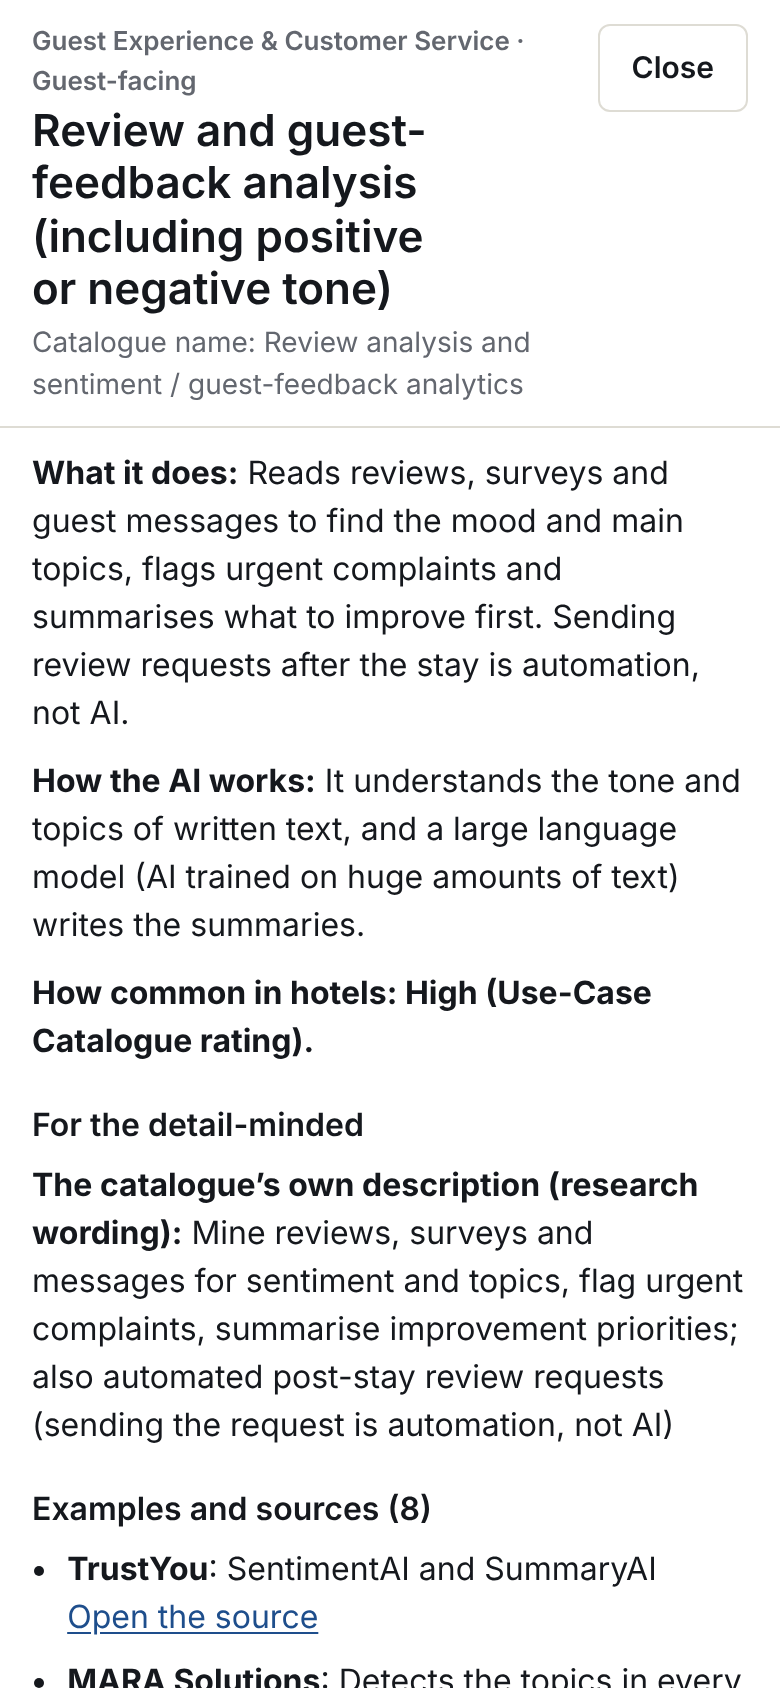
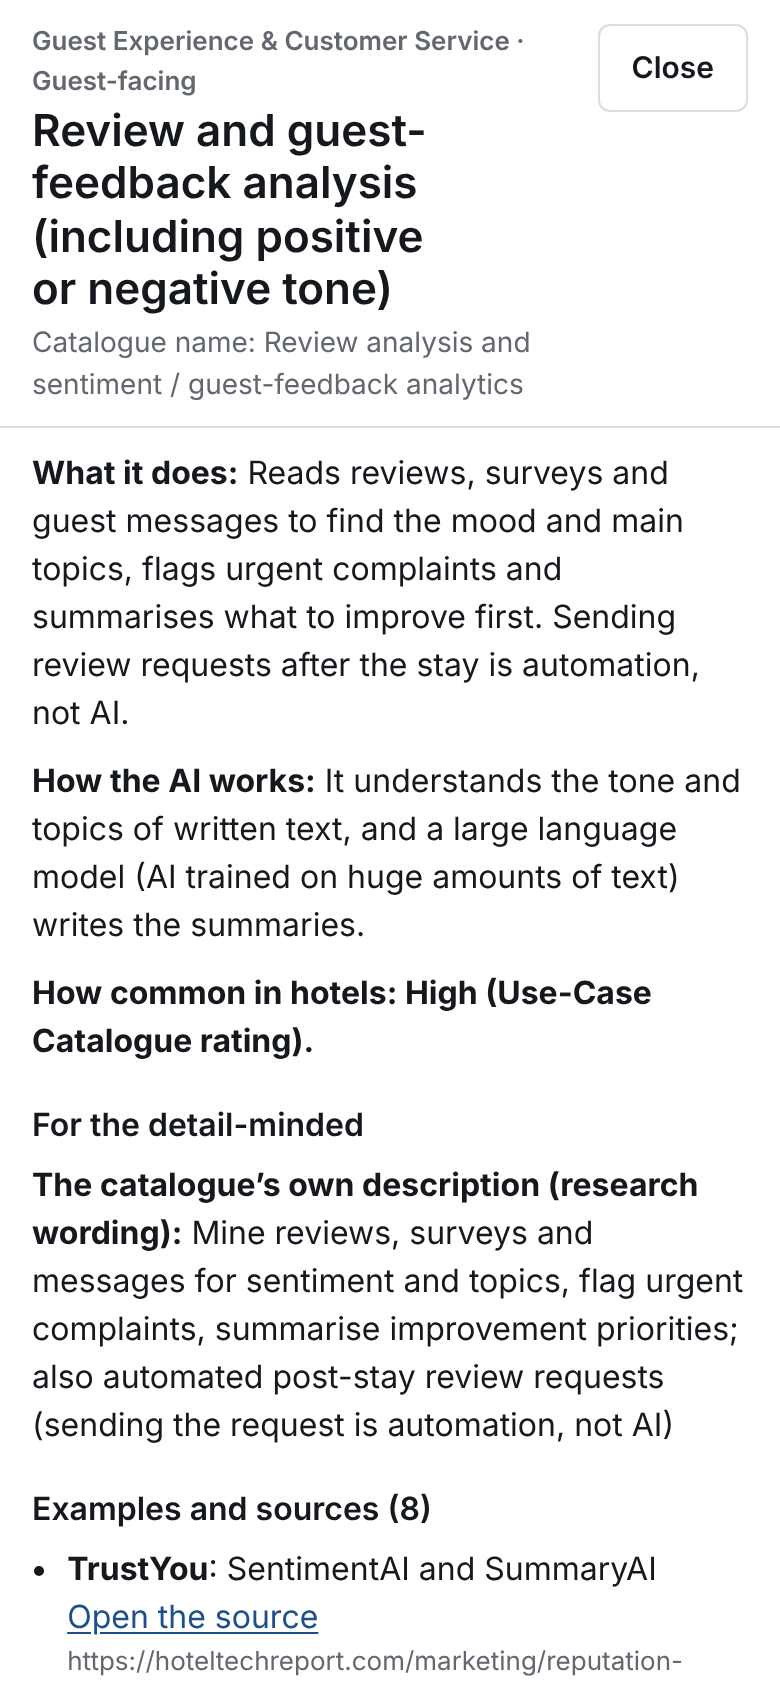
Do you need AI?: each source in the detail layer shows its address, selectable, with Copy address (the claude.ai viewer may refuse links from inside the hub)
Claude-Session: https://claude.ai/code/session_01FfMsQbQQ8DvNf1wGU3HsQR

Changed region(s): [[0.0308, 0.955, 0.9538, 1.0]]

diff --git a/tools/readiness-2/index.html b/tools/readiness-2/index.html
@@ -378,6 +378,12 @@ dialog.detail .tag{display:inline-block;font-size:0.75rem;font-weight:600;color:
 @media (max-width:640px){ dialog.detail{width:100vw;margin:0;box-shadow:none} dialog.detail .dhead{padding:12px 16px 10px} dialog.detail .dbody{padding:10px 16px 24px} }
 @media print{ dialog.detail{display:none!important} }
 
+/* 24 Nov 2026: source address shown under each source in the detail layer, selectable, with Copy address */
+.srcaddr{display:block;margin-top:2px;font-size:0.8125rem;color:var(--ink3);overflow-wrap:anywhere}
+.srcaddr .srcurl{user-select:all;-webkit-user-select:all}
+.srcaddr .copysrc{font-size:0.8125rem;min-height:44px;padding:0 4px}
+@media print{ .srcaddr .copysrc{display:none} }
+
 </style>
 </head>
 <body>
@@ -1906,7 +1912,9 @@ function(t){t.__bidiEngine__=t.prototype.__bidiEngine__=function(t){var r,n,i,a,
     var nm = (x.type === 'h' ? '<span class="tag">Hotel</span> ' : '') + escH(x.name);
     /* a plain link ('l') is a sentence, not a name: not set in bold */
     return '<li data-src="' + escH(x.type) + '">' + (x.type === 'l' ? nm : '<b>' + nm + '</b>') + (x.note ? ': ' + escH(x.note) : '') +
-      (x.url ? ' <a href="' + escH(x.url) + '" target="_blank" rel="noopener" data-ext="source">Open the source</a>' : '') + '</li>';
+      (x.url ? ' <a href="' + escH(x.url) + '" target="_blank" rel="noopener" data-ext="source">Open the source</a>' +
+        /* 24 Nov 2026: the claude.ai viewer may refuse to open a link from inside the hub, so the address is also shown, selectable, with a copy button */
+        '<span class="srcaddr"><span class="srcurl">' + escH(x.url) + '</span> <button type="button" class="linkbtn copysrc" data-act="copy-src" data-url="' + escH(x.url) + '">Copy address</button></span>' : '') + '</li>';
   }
 
   /* ---------- dates ---------- */
@@ -3755,6 +3763,9 @@ function(t){t.__bidiEngine__=t.prototype.__bidiEngine__=function(t){var r,n,i,a,
     if (act === 'detail-close') { e.preventDefault(); closeDetail(); return; }
     if (act === 'cat') send('cat', t.getAttribute('data-cat'));
     else if (act === 'dept') send('dept', t.getAttribute('data-dept'));
+    else if (act === 'copy-src') { e.preventDefault(); var su = t.getAttribute('data-url'), sp = t.parentNode && t.parentNode.querySelector('.srcurl');
+      var selectIt = function () { if (!sp) return; var r = document.createRange(); r.selectNodeContents(sp); var w = window.getSelection(); w.removeAllRanges(); w.addRange(r); t.textContent = 'Selected: press Ctrl+C or Cmd+C'; };
+      try { if (navigator.clipboard && navigator.clipboard.writeText) navigator.clipboard.writeText(su).then(function () { t.textContent = 'Copied'; }, selectIt); else selectIt(); } catch (x) { selectIt(); } }
     else if (act === 'copy-who') { m = model(); var p = m.people.filter(function (x) { return x.who === t.getAttribute('data-who'); })[0]; if (p) copyText(L.personText(m, p, USE[rec.use] ? '· ' + uName(USE[rec.use]) : ''), 'List for ' + p.name.replace(/^The /, 'the '), 'who:' + p.who); }
     else if (act === 'copy-vendor') { m = model(); copyText('Questions about ' + (USE[rec.use] ? uName(USE[rec.use]) : 'the tool') + ':\n\n' + m.vendor.map(function (q, i) { return (i + 1) + '. ' + q; }).join('\n'), 'Vendor questions', 'vendor'); }
     else if (act === 'pdf') { if (!t.disabled) downloadPdf(); }

diff --git a/tools/readiness-2/src/app.js b/tools/readiness-2/src/app.js
@@ -859,6 +859,9 @@
     if (act === 'detail-close') { e.preventDefault(); closeDetail(); return; }
     if (act === 'cat') send('cat', t.getAttribute('data-cat'));
     else if (act === 'dept') send('dept', t.getAttribute('data-dept'));
+    else if (act === 'copy-src') { e.preventDefault(); var su = t.getAttribute('data-url'), sp = t.parentNode && t.parentNode.querySelector('.srcurl');
+      var selectIt = function () { if (!sp) return; var r = document.createRange(); r.selectNodeContents(sp); var w = window.getSelection(); w.removeAllRanges(); w.addRange(r); t.textContent = 'Selected: press Ctrl+C or Cmd+C'; };
+      try { if (navigator.clipboard && navigator.clipboard.writeText) navigator.clipboard.writeText(su).then(function () { t.textContent = 'Copied'; }, selectIt); else selectIt(); } catch (x) { selectIt(); } }
     else if (act === 'copy-who') { m = model(); var p = m.people.filter(function (x) { return x.who === t.getAttribute('data-who'); })[0]; if (p) copyText(L.personText(m, p, USE[rec.use] ? '· ' + uName(USE[rec.use]) : ''), 'List for ' + p.name.replace(/^The /, 'the '), 'who:' + p.who); }
     else if (act === 'copy-vendor') { m = model(); copyText('Questions about ' + (USE[rec.use] ? uName(USE[rec.use]) : 'the tool') + ':\n\n' + m.vendor.map(function (q, i) { return (i + 1) + '. ' + q; }).join('\n'), 'Vendor questions', 'vendor'); }
     else if (act === 'pdf') { if (!t.disabled) downloadPdf(); }

diff --git a/tools/readiness-2/src/logic.js b/tools/readiness-2/src/logic.js
@@ -139,7 +139,9 @@
     var nm = (x.type === 'h' ? '<span class="tag">Hotel</span> ' : '') + escH(x.name);
     /* a plain link ('l') is a sentence, not a name: not set in bold */
     return '<li data-src="' + escH(x.type) + '">' + (x.type === 'l' ? nm : '<b>' + nm + '</b>') + (x.note ? ': ' + escH(x.note) : '') +
-      (x.url ? ' <a href="' + escH(x.url) + '" target="_blank" rel="noopener" data-ext="source">Open the source</a>' : '') + '</li>';
+      (x.url ? ' <a href="' + escH(x.url) + '" target="_blank" rel="noopener" data-ext="source">Open the source</a>' +
+        /* 24 Nov 2026: the claude.ai viewer may refuse to open a link from inside the hub, so the address is also shown, selectable, with a copy button */
+        '<span class="srcaddr"><span class="srcurl">' + escH(x.url) + '</span> <button type="button" class="linkbtn copysrc" data-act="copy-src" data-url="' + escH(x.url) + '">Copy address</button></span>' : '') + '</li>';
   }
 
   /* ---------- dates ---------- */

diff --git a/tools/readiness-2/src/style.css b/tools/readiness-2/src/style.css
@@ -366,3 +366,9 @@ dialog.detail .dsrcs a{display:inline-block;min-height:44px;line-height:44px;mar
 dialog.detail .tag{display:inline-block;font-size:0.75rem;font-weight:600;color:var(--accent);background:var(--accent-soft);border-radius:4px;padding:1px 6px;vertical-align:1px}
 @media (max-width:640px){ dialog.detail{width:100vw;margin:0;box-shadow:none} dialog.detail .dhead{padding:12px 16px 10px} dialog.detail .dbody{padding:10px 16px 24px} }
 @media print{ dialog.detail{display:none!important} }
+
+/* 24 Nov 2026: source address shown under each source in the detail layer, selectable, with Copy address */
+.srcaddr{display:block;margin-top:2px;font-size:0.8125rem;color:var(--ink3);overflow-wrap:anywhere}
+.srcaddr .srcurl{user-select:all;-webkit-user-select:all}
+.srcaddr .copysrc{font-size:0.8125rem;min-height:44px;padding:0 4px}
+@media print{ .srcaddr .copysrc{display:none} }
